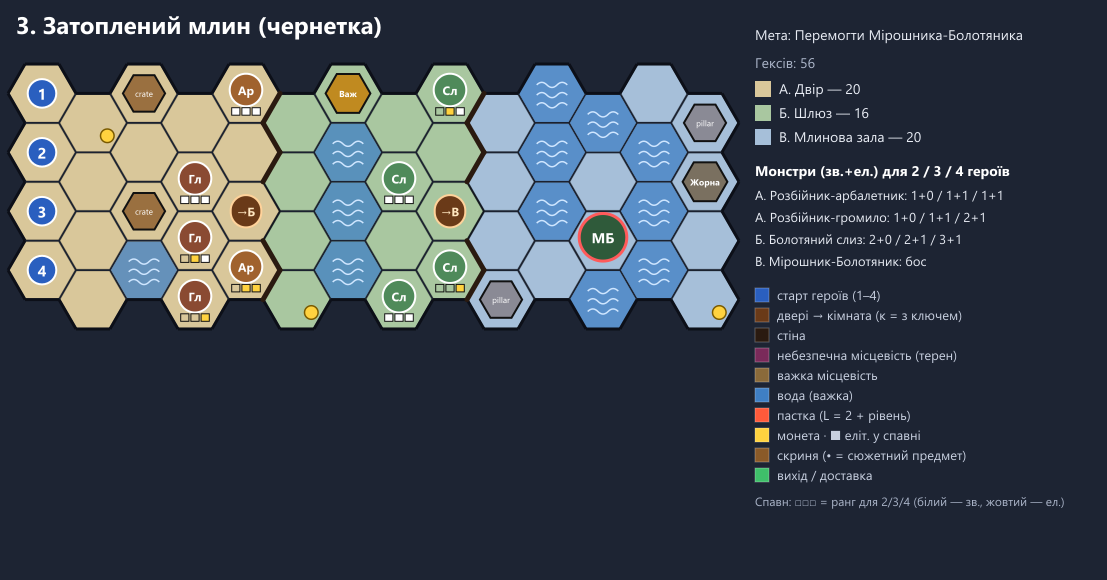
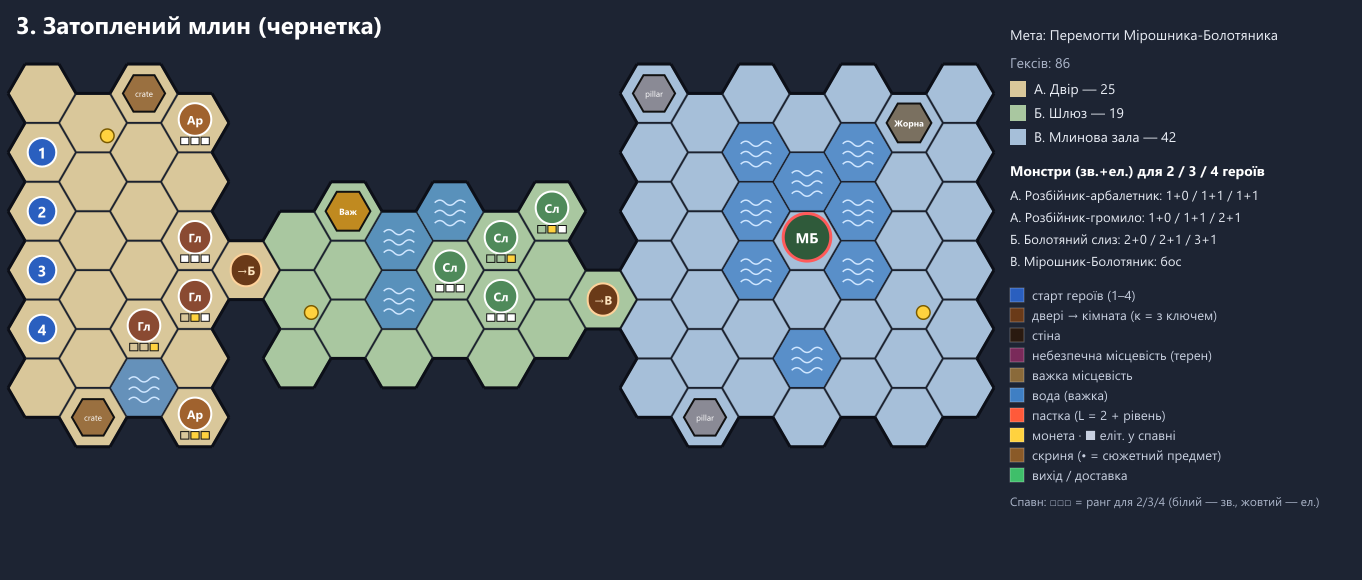
Reshape s3-s5: halls, corridors and closets instead of rooms of one size
s3: yard 24, a narrow sluice channel 18 (lever and water across it), mill hall 42 with a pond
    around the Miller.
s4: cramped gatehouse 12, long barracks 18 (runes, beds), upper tier hall 30; the chest sits
    near the tier's entrance so the carry back stays within the card budget.
s5: a tunnel two hexes across (16), the Heart hall 36 with the braziers around Тінерук.
Same rules as s1/s2: offset rectangles, one left-out column at each door, contents kept.

Tests: s3-s5 hexes in the scenario tests; the drafts must have a hall at least twice the
smallest room; the straight-wall render test skips hexes across a concave notch (d > 3).
Card budget (min rounds / hand / slack): s3 14/25 44%, s4 14/20 30%, s5 11/16 31%.
Golden AI tests: no change needed.

diff --git a/tests/rules/scenarios/s3.test.ts b/tests/rules/scenarios/s3.test.ts
@@ -41,13 +41,13 @@ describe('s3 Затоплений млин: Мірошник-Болотяник'
   });
 
   it('«Кидок мішка» is a range 3 attack on 2 targets', () => {
-    const s = hall([9, -3], [9, -2]);
+    const s = hall([13, -5], [13, -4]);
     s.behaviourDecks['bog-miller']!.current = 'boss.miller.45';
     expect(figureSteps(ctxOf(s), miller(s))).toEqual([{ type: 'attack', value: 3, range: 3, targets: 2 }]);
   });
 
   it('card 22 summons 2 bog slimes next to the Miller and heals him by 3', () => {
-    let s = hall([9, -3], [9, -2]);
+    let s = hall([13, -5], [13, -4]);
     miller(s).hp = 10;
     stackBehaviour(s, 'bog-miller', ['boss.miller.22']);
     s = finishRound(selectEarly(s), content);
@@ -55,15 +55,15 @@ describe('s3 Затоплений млин: Мірошник-Болотяник'
     expect(slimes).toHaveLength(2);
     for (const sl of slimes) {
       expect(sl.summonerId).toBe(miller(s).id);
-      expect(Math.max(Math.abs(sl.hex[0] - 11), Math.abs(sl.hex[1] + 3), Math.abs(sl.hex[0] + sl.hex[1] - 8))).toBe(1);
+      expect(Math.max(Math.abs(sl.hex[0] - 15), Math.abs(sl.hex[1] + 5), Math.abs(sl.hex[0] + sl.hex[1] - 10))).toBe(1);
     }
     expect(miller(s).hp).toBe(13);
   });
 
   it('«Потоп»: heroes on water take 2 damage and are immobilized; others are spared', () => {
-    let s = hall([10, -4], [9, -3]);
-    expect(tile(s, [10, -4]).terrain).toBe('water');
-    expect(tile(s, [9, -3]).terrain).toBe('normal');
+    let s = hall([14, -5], [13, -5]);
+    expect(tile(s, [14, -5]).terrain).toBe('water');
+    expect(tile(s, [13, -5]).terrain).toBe('normal');
     stackBehaviour(s, 'bog-miller', ['boss.miller.72']);
     s = selectEarly(s);
     const before = { warden: hero(s, 'warden').hp, herbalist: hero(s, 'herbalist').hp };
@@ -75,8 +75,8 @@ describe('s3 Затоплений млин: Мірошник-Болотяник'
 
   it('the sluice lever: a hero next to it spends a top action to lower it', () => {
     let s = clearMonsters(reveal(game('s3'), 's3.sluice'));
-    expect(tile(s, [6, -3])).toMatchObject({ obstacle: true, object: { id: 's3.sluice-lever', kind: 'lever', state: 'up' } });
-    place(s, 'hero:warden', [7, -3]);
+    expect(tile(s, [6, -1])).toMatchObject({ obstacle: true, object: { id: 's3.sluice-lever', kind: 'lever', state: 'up' } });
+    place(s, 'hero:warden', [6, 0]);
     s = untilTurn(selectEarly(s), 'warden');
     const [a, b] = selected(s, 'warden');
     const offered = legalActions(s, content).filter((x) => x.type === 'interact');
@@ -88,26 +88,26 @@ describe('s3 Затоплений млин: Мірошник-Болотяник'
       /top action/,
     );
     const r = act(s, content, { type: 'interact', heroId: 'hero:warden', cardId: a, half: 'top', objectId: 's3.sluice-lever' });
-    expect(tile(r, [6, -3]).object?.state).toBe('down');
-    expect(eventsOf(r.log, 'objectChanged')).toEqual([{ type: 'objectChanged', objectId: 's3.sluice-lever', hex: [6, -3], state: 'down', byId: 'hero:warden' }]);
+    expect(tile(r, [6, -1]).object?.state).toBe('down');
+    expect(eventsOf(r.log, 'objectChanged')).toEqual([{ type: 'objectChanged', objectId: 's3.sluice-lever', hex: [6, -1], state: 'down', byId: 'hero:warden' }]);
     expect([...hero(r, 'warden').discard, ...hero(r, 'warden').lost]).toContain(a);
     expect(r.pending).toEqual({ kind: 'heroTurn', heroId: 'hero:warden' });
     // The other card's bottom half can still be played; the lever is done.
     expect(rejects(r, content, { type: 'interact', heroId: 'hero:warden', cardId: b, half: 'top', objectId: 's3.sluice-lever' })).toMatch(/top action already/);
-    expect(act(r, content, { type: 'undo' }).board.tiles['6,-3']?.object?.state).toBe('up');
+    expect(act(r, content, { type: 'undo' }).board.tiles['6,-1']?.object?.state).toBe('up');
   });
 
   it('the lever must be adjacent', () => {
     let s = clearMonsters(reveal(game('s3'), 's3.sluice'));
-    place(s, 'hero:warden', [8, -3]);
+    place(s, 'hero:warden', [9, -2]);
     s = untilTurn(selectEarly(s), 'warden');
     const [a] = selected(s, 'warden');
     expect(rejects(s, content, { type: 'interact', heroId: 'hero:warden', cardId: a, half: 'top', objectId: 's3.sluice-lever' })).toMatch(/adjacent/);
   });
 
   it('with the sluice lowered «Потоп» does nothing', () => {
-    let s = hall([10, -4], [10, -3]);
-    tile(s, [6, -3]).object!.state = 'down';
+    let s = hall([14, -5], [14, -4]);
+    tile(s, [6, -1]).object!.state = 'down';
     stackBehaviour(s, 'bog-miller', ['boss.miller.72']);
     s = selectEarly(s);
     const before = hero(s, 'warden').hp + hero(s, 'herbalist').hp;
@@ -118,8 +118,8 @@ describe('s3 Затоплений млин: Мірошник-Болотяник'
 
   it('water is difficult terrain: entering it costs 2 movement', () => {
     const s = clearMonsters(reveal(game('s3'), 's3.sluice'));
-    place(s, 'hero:warden', [5, -1]);
-    expect(findPath(s, [6, -1], { figureId: 'hero:warden' })?.cost).toBe(2);
+    place(s, 'hero:warden', [6, 0]);
+    expect(findPath(s, [7, 0], { figureId: 'hero:warden' })?.cost).toBe(2);
     expect(findPath(s, [5, 0], { figureId: 'hero:warden' })?.cost).toBe(1);
   });
 
@@ -132,8 +132,8 @@ describe('s3 Затоплений млин: Мірошник-Болотяник'
     // The Miller stays (killing him would end the scenario); he is far from the heroes in the yard.
     clearMonsters(s, 'bog-slime');
     s = finishRound(selectEarly(s), content);
-    expect(s.orbs.earth).toEqual({ ownerId: 's3.millstones', hex: [13, -5], age: 0 });
-    expect(tile(s, [13, -5]).obstacle).toBe(true);
+    expect(s.orbs.earth).toEqual({ ownerId: 's3.millstones', hex: [17, -8], age: 0 });
+    expect(tile(s, [17, -8]).obstacle).toBe(true);
   });
 
   it('base rules: the millstones give nothing', () => {

diff --git a/tests/rules/scenarios/s5.test.ts b/tests/rules/scenarios/s5.test.ts
@@ -12,9 +12,9 @@ import type { GameState } from '../../../src/rules/state';
 import { clearMonsters, content, ctxOf, game, hero, monstersOf, place, reveal, selected, selectEarly, tile, untilTurn } from './helpers';
 
 const BRAZIERS: [number, number][] = [
-  [8, -3],
-  [11, -4],
-  [10, -1],
+  [11, -5],
+  [13, -5],
+  [11, -3],
 ];
 
 function boss(s: GameState) {
@@ -43,13 +43,13 @@ describe('s5 Серце Мороку: жаровні й Тінерук', () => {
 
   it('a hero next to a brazier spends a bottom action to light it and infuse Light', () => {
     let s = heart();
-    place(s, 'hero:warden', [8, -2]);
+    place(s, 'hero:warden', [10, -5]);
     s = untilTurn(selectEarly(s), 'warden');
     const [a, b] = selected(s, 'warden');
     expect(rejects(s, content, { type: 'interact', heroId: 'hero:warden', cardId: a, half: 'top', objectId: 's5.brazier-1' })).toMatch(/bottom action/);
     expect(rejects(s, content, { type: 'interact', heroId: 'hero:warden', cardId: a, half: 'bottom', objectId: 's5.brazier-2' })).toMatch(/adjacent/);
     s = act(s, content, { type: 'interact', heroId: 'hero:warden', cardId: b, half: 'bottom', objectId: 's5.brazier-1' });
-    expect(tile(s, [8, -3]).object?.state).toBe('lit');
+    expect(tile(s, [11, -5]).object?.state).toBe('lit');
     expect(s.pendingInfusions).toEqual(['light']);
     s = endTurn(s, content, 'warden');
     expect(s.elements.light).toBe('strong');
@@ -57,7 +57,7 @@ describe('s5 Серце Мороку: жаровні й Тінерук', () => {
 
   it('fork: lighting a brazier gives a Fire orb above the hero (there is no Light orb)', () => {
     let s = heart({ orbs: true });
-    place(s, 'hero:warden', [8, -2]);
+    place(s, 'hero:warden', [10, -5]);
     s = untilTurn(selectEarly(s), 'warden');
     const [, b] = selected(s, 'warden');
     s = act(s, content, { type: 'interact', heroId: 'hero:warden', cardId: b, half: 'bottom', objectId: 's5.brazier-1' });
@@ -74,10 +74,10 @@ describe('s5 Серце Мороку: жаровні й Тінерук', () => {
     const s = heart();
     const ctx = ctxOf(s);
     expect(adjustDamage(ctx, boss(s), 5)).toBe(2);
-    tile(s, [8, -3]).object!.state = 'lit';
-    tile(s, [11, -4]).object!.state = 'lit';
+    tile(s, [11, -5]).object!.state = 'lit';
+    tile(s, [13, -5]).object!.state = 'lit';
     expect(adjustDamage(ctx, boss(s), 5)).toBe(2);
-    tile(s, [10, -1]).object!.state = 'lit';
+    tile(s, [11, -3]).object!.state = 'lit';
     expect(adjustDamage(ctx, boss(s), 5)).toBe(5);
     // Other monsters always take full damage.
     const t = reveal(game('s5'), 's5.heart');
@@ -91,7 +91,7 @@ describe('s5 Серце Мороку: жаровні й Тінерук', () => {
     ] as const) {
       let s = heart();
       if (lit) lightAll(s);
-      place(s, 'hero:warden', [9, -3]);
+      place(s, 'hero:warden', [11, -4]);
       s = untilTurn(selectEarly(s), 'warden');
       stackModifiers(s, 'warden', ['+0']);
       const [a] = selected(s, 'warden');
@@ -104,18 +104,18 @@ describe('s5 Серце Мороку: жаровні й Тінерук', () => {
     let s = reveal(game('s5'), 's5.heart');
     const [w, ...rest] = monstersOf(s, 'shadow-wraith');
     for (const m of [...rest, ...monstersOf(s, 'gloom-cultist'), boss(s)]) delete s.figures[m.id];
-    tile(s, [8, -3]).object!.state = 'lit';
-    place(s, w!.id, [8, -2]);
+    tile(s, [11, -5]).object!.state = 'lit';
+    place(s, w!.id, [10, -5]);
     w!.conditions.immobilize = { expiresAfterTurn: 99 };
     s = finishRound(selectEarly(s), content);
-    expect(tile(s, [8, -3]).object?.state).toBe('unlit');
-    expect(eventsOf(s.log, 'objectChanged')).toEqual([{ type: 'objectChanged', objectId: 's5.brazier-1', hex: [8, -3], state: 'unlit', byId: w!.id }]);
+    expect(tile(s, [11, -5]).object?.state).toBe('unlit');
+    expect(eventsOf(s.log, 'objectChanged')).toEqual([{ type: 'objectChanged', objectId: 's5.brazier-1', hex: [11, -5], state: 'unlit', byId: w!.id }]);
   });
 
   it('teleport: Тінерук jumps up to 5 hexes to a free hex away from heroes but within his range, and infuses Darkness', () => {
     let s = heart();
-    place(s, 'hero:warden', [9, -3]);
-    place(s, 'hero:herbalist', [9, -2]);
+    place(s, 'hero:warden', [11, -4]);
+    place(s, 'hero:herbalist', [10, -4]);
     stackBehaviour(s, 'shadowhand', ['boss.shadowhand.08']);
     const from = boss(s).hex;
     s = finishRound(selectEarly(s), content);

diff --git a/tests/rules/scenarios/s4.test.ts b/tests/rules/scenarios/s4.test.ts
@@ -7,7 +7,7 @@ import { figureSteps } from '../../../src/rules/turn';
 import type { GameState } from '../../../src/rules/state';
 import { clearMonsters, content, ctxOf, game, hero, monstersOf, place, reveal, selected, selectEarly, tile, untilTurn } from './helpers';
 
-const DOOR: [number, number] = [7, 0];
+const DOOR: [number, number] = [10, -3];
 const ATTACK3 = { type: 'attack', value: 3 } as const;
 
 describe('s4 Стара сторожова вежа', () => {
@@ -15,12 +15,12 @@ describe('s4 Стара сторожова вежа', () => {
     let s = clearMonsters(reveal(game('s4'), 's4.barracks'));
     expect(tile(s, DOOR).door).toEqual({ to: 's4.upper-tier', open: false, key: 'tower-key' });
     expect(isDoorLocked(s, DOOR)).toBe(true);
-    place(s, 'hero:warden', [6, 0]);
+    place(s, 'hero:warden', [9, -3]);
     s = untilTurn(selectEarly(s), 'warden');
     const [, b] = selected(s, 'warden');
     s = act(s, content, { type: 'startHalf', heroId: 'hero:warden', cardId: b, half: 'bottom', basic: true });
     expect(rejects(s, content, { type: 'resolveStep', choice: { path: [DOOR] } })).toBe('the door is locked');
-    const moves = legalActions(s, content).filter((a) => a.type === 'resolveStep' && a.choice.path?.some((h) => h[0] === 7 && h[1] === 0));
+    const moves = legalActions(s, content).filter((a) => a.type === 'resolveStep' && a.choice.path?.some((h) => h[0] === 10 && h[1] === -3));
     expect(moves).toEqual([]);
 
     // The key held by any hero of the party opens it.
@@ -54,23 +54,23 @@ describe('s4 Стара сторожова вежа', () => {
   it('a cultist on a rune has Shield 1; off the rune, or another monster on it, has none', () => {
     const s = clearMonsters(reveal(game('s4'), 's4.barracks'), 'stone-sentinel');
     const [c] = monstersOf(s, 'gloom-cultist');
-    place(s, c!.id, [5, -1]);
-    expect(tile(s, [5, -1]).object?.kind).toBe('rune');
-    place(s, 'hero:warden', [4, -1]);
+    place(s, c!.id, [6, -2]);
+    expect(tile(s, [6, -2]).object?.kind).toBe('rune');
+    place(s, 'hero:warden', [5, -1]);
     expect(previewAttack(s, 'hero:warden', c!.id, content, ATTACK3)).toMatchObject({ shield: 1, damage: 2 });
     place(s, c!.id, [5, 0]);
     expect(previewAttack(s, 'hero:warden', c!.id, content, ATTACK3)).toMatchObject({ shield: 0, damage: 3 });
     const sentinelGame = reveal(game('s4'), 's4.barracks');
     const sentinel = monstersOf(sentinelGame, 'stone-sentinel')[0]!;
     const plain = previewAttack(sentinelGame, 'hero:warden', sentinel.id, content, ATTACK3)!.shield;
-    place(sentinelGame, sentinel.id, [5, -1]);
-    place(sentinelGame, 'hero:warden', [4, -1]);
+    place(sentinelGame, sentinel.id, [6, -2]);
+    place(sentinelGame, 'hero:warden', [5, -1]);
     expect(previewAttack(sentinelGame, 'hero:warden', sentinel.id, content, ATTACK3)!.shield).toBe(plain);
   });
 
   it('the chest on the upper tier gives the Lantern piece; carried back to the entrance it wins', () => {
     let s = clearMonsters(reveal(game('s4'), 's4.barracks', 's4.upper-tier'));
-    place(s, 'hero:warden', [11, -5]);
+    place(s, 'hero:warden', [13, -6]);
     s = finishRound(selectEarly(s), content);
     expect(hero(s, 'warden').questItems).toEqual(['lantern-shard-2']);
     expect(hero(s, 'warden').chests).toEqual(['s4.lantern-shard']);

diff --git a/tests/data/scenarios-maps.test.ts b/tests/data/scenarios-maps.test.ts
@@ -92,11 +92,14 @@ describe('drafts s2–s5 follow the design doc', () => {
     });
 
   for (const id of ['s2', 's3', 's4', 's5'])
-    it(`${id}: is a draft of 30–90 hexes`, () => {
+    it(`${id}: is a draft of 30–90 hexes whose rooms differ in size`, () => {
       const s = scenarios[id]!;
       expect(s.draft).toBe(true);
       expect(hexCount(s)).toBeGreaterThanOrEqual(30);
       expect(hexCount(s)).toBeLessThanOrEqual(90);
+      // A hall next to a closet or a corridor: the biggest room at least twice the smallest.
+      const sizes = s.rooms.map((r) => r.hexes.length);
+      expect(Math.max(...sizes)).toBeGreaterThanOrEqual(2 * Math.min(...sizes));
       expect(s.startHexes).toHaveLength(4);
     });
 

diff --git a/tests/render/environment.test.ts b/tests/render/environment.test.ts
@@ -127,7 +127,10 @@ describe('straight walls', () => {
           const c = hexToWorld(q, rr);
           const along = ((c.x - r.ax) * (r.bx - r.ax) + (c.z - r.az) * (r.bz - r.az)) / ((r.bx - r.ax) ** 2 + (r.bz - r.az) ** 2);
           if (along < 0 || along > 1) continue;
-          expect((c.x - r.ax) * r.nx + (c.z - r.az) * r.nz, `${k}`).toBeLessThan(0.05);
+          const out = (c.x - r.ax) * r.nx + (c.z - r.az) * r.nz;
+          // Far beyond the line is the other side of a concave notch (a hall past a narrow room), not a cut.
+          if (out > 3) continue;
+          expect(out, `${k}`).toBeLessThan(0.05);
         }
       }
     });
